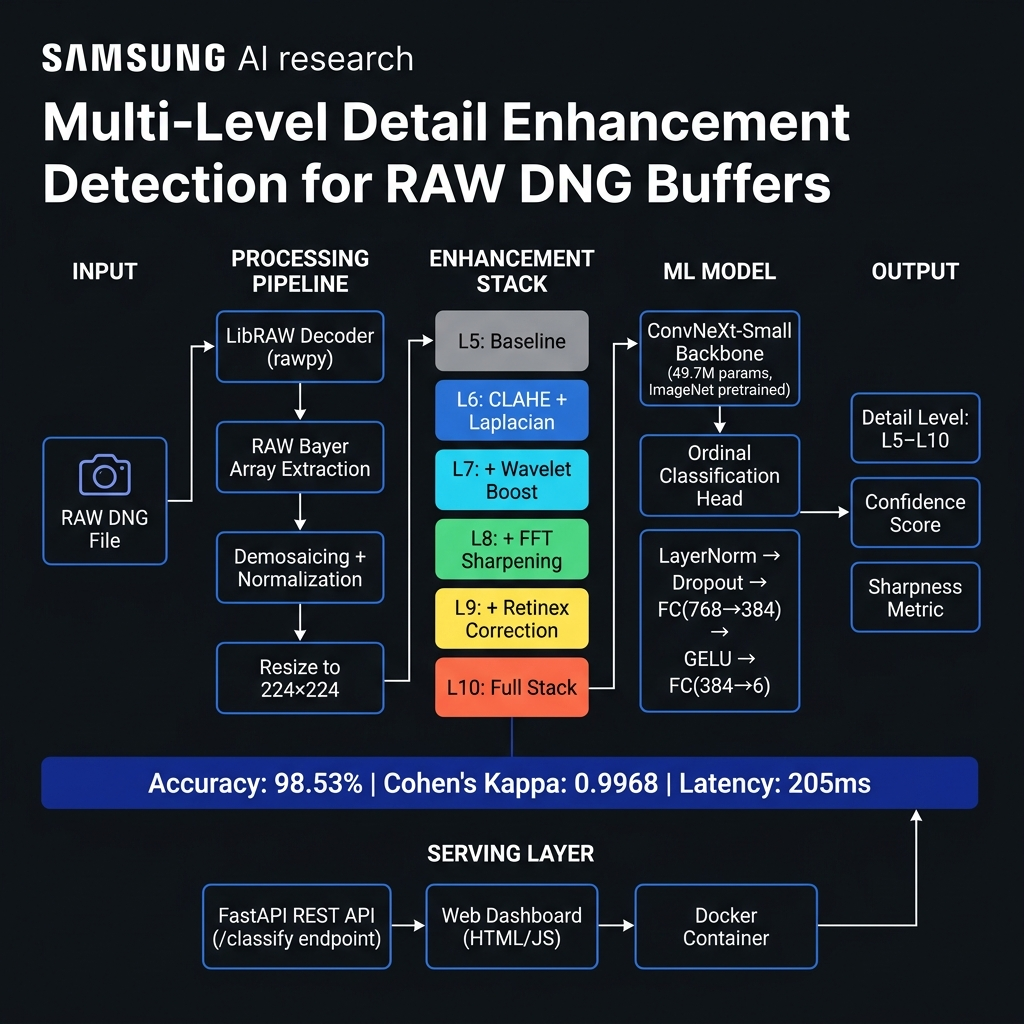
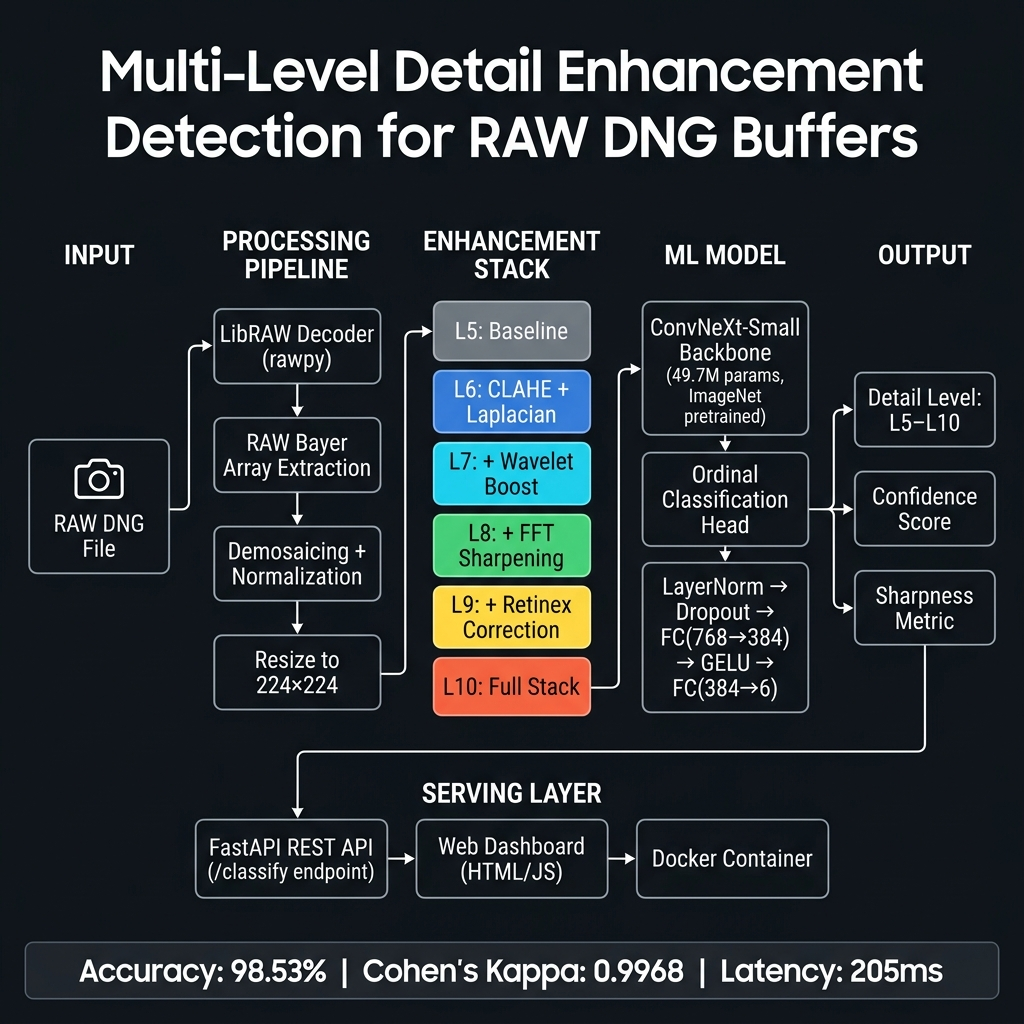
Update architecture diagram, fix README structure, add gitignore

Changed region(s): [[0.0312, 0.0312, 0.9688, 0.9688], [0.8438, 0.2188, 0.9375, 0.2812]]

diff --git a/DNG_Final/README.md b/DNG_Final/README.md
@@ -13,26 +13,36 @@ A machine learning pipeline that classifies RAW DNG images into 6 enhancement le
 ## 🗂 Project Structure
 
 ```
-anti/
-├── api/                    # FastAPI REST backend
+DNG_Final/
+├── api/                         # FastAPI REST backend
 │   └── main.py
-├── checkpoints_v3/         # Trained model weights
-│   ├── best_model.pt       # PyTorch checkpoint (98.53% acc)
-│   └── model.onnx          # ONNX export (205ms CPU latency)
+├── checkpoints_v3/              # Trained model weights (download from Google Drive)
+│   ├── best_model.pt            # PyTorch checkpoint (98.53% acc)
+│   └── model.onnx               # ONNX export (205ms CPU latency)
 ├── dashboard/
-│   └── index.html          # Web UI dashboard
+│   └── index.html               # Web UI dashboard
 ├── data/
 │   ├── build_fivek_dataset.py   # GPU-accelerated dataset builder
 │   ├── dataset.py               # PyTorch DataLoader
-│   └── fivek_prepared/          # 30,000 training samples
+│   └── fivek_384/               # Dataset labels JSON
+├── docs/
+│   ├── architecture/
+│   │   └── system_architecture.png   # System architecture diagram
+│   ├── monthly_reports/         # Monthly connect reports
+│   ├── weekly_reports/          # Weekly/biweekly progress reports
+│   └── end_review_ppt/          # End review presentation
 ├── model/
-│   ├── classifier.py       # ConvNeXt-Small + ordinal head
-│   └── train.py            # Training script (v3)
+│   ├── classifier.py            # ConvNeXt-Small + ordinal head
+│   └── train.py                 # Training script (v3)
 ├── pipeline/
-│   └── dng_processor.py    # LibRAW DNG decoder
+│   └── dng_processor.py         # LibRAW DNG decoder
 ├── utils/
-│   └── metrics.py          # Image quality metrics (IQA)
-├── export_onnx.py          # ONNX export + latency benchmark
+│   └── metrics.py               # Image quality metrics (IQA)
+├── inference.py                 # ⭐ Standalone demo/inference script
+├── export_onnx.py               # ONNX export + latency benchmark
+├── validate_kpi4.py             # KPI validation script
+├── Dockerfile                   # Docker container definition
+├── docker-compose.yml           # Multi-service orchestration
 └── requirements.txt
 ```
 
